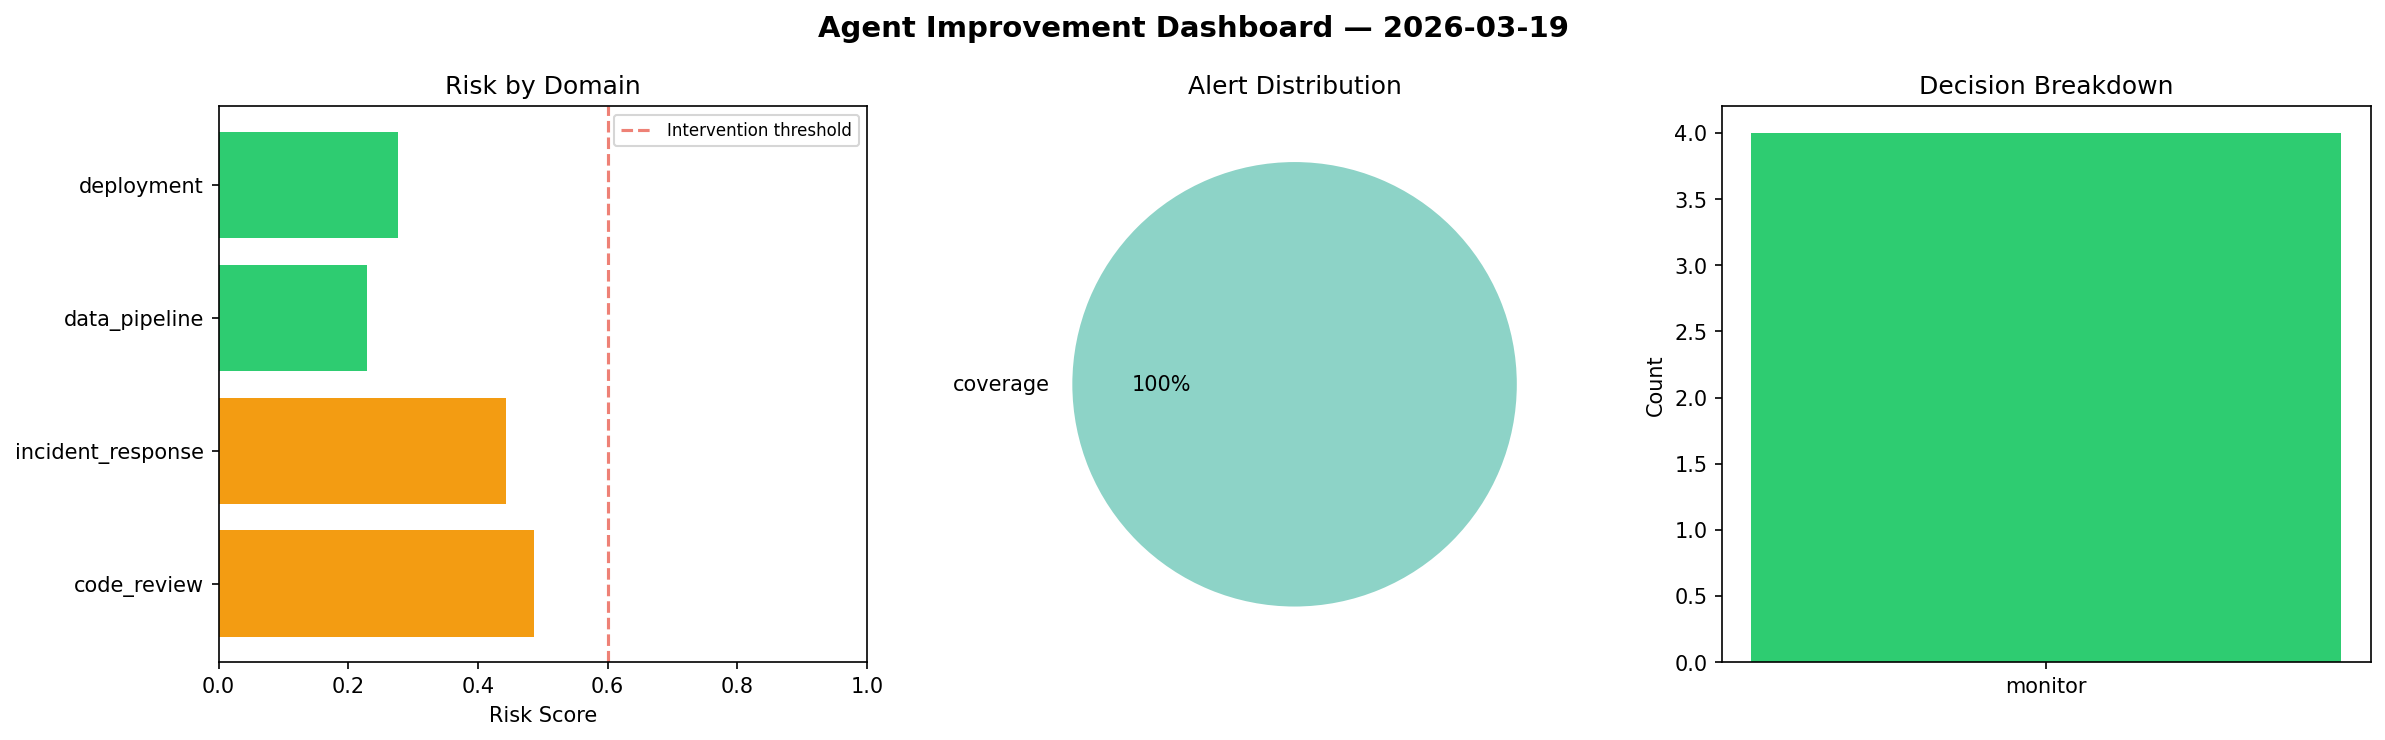
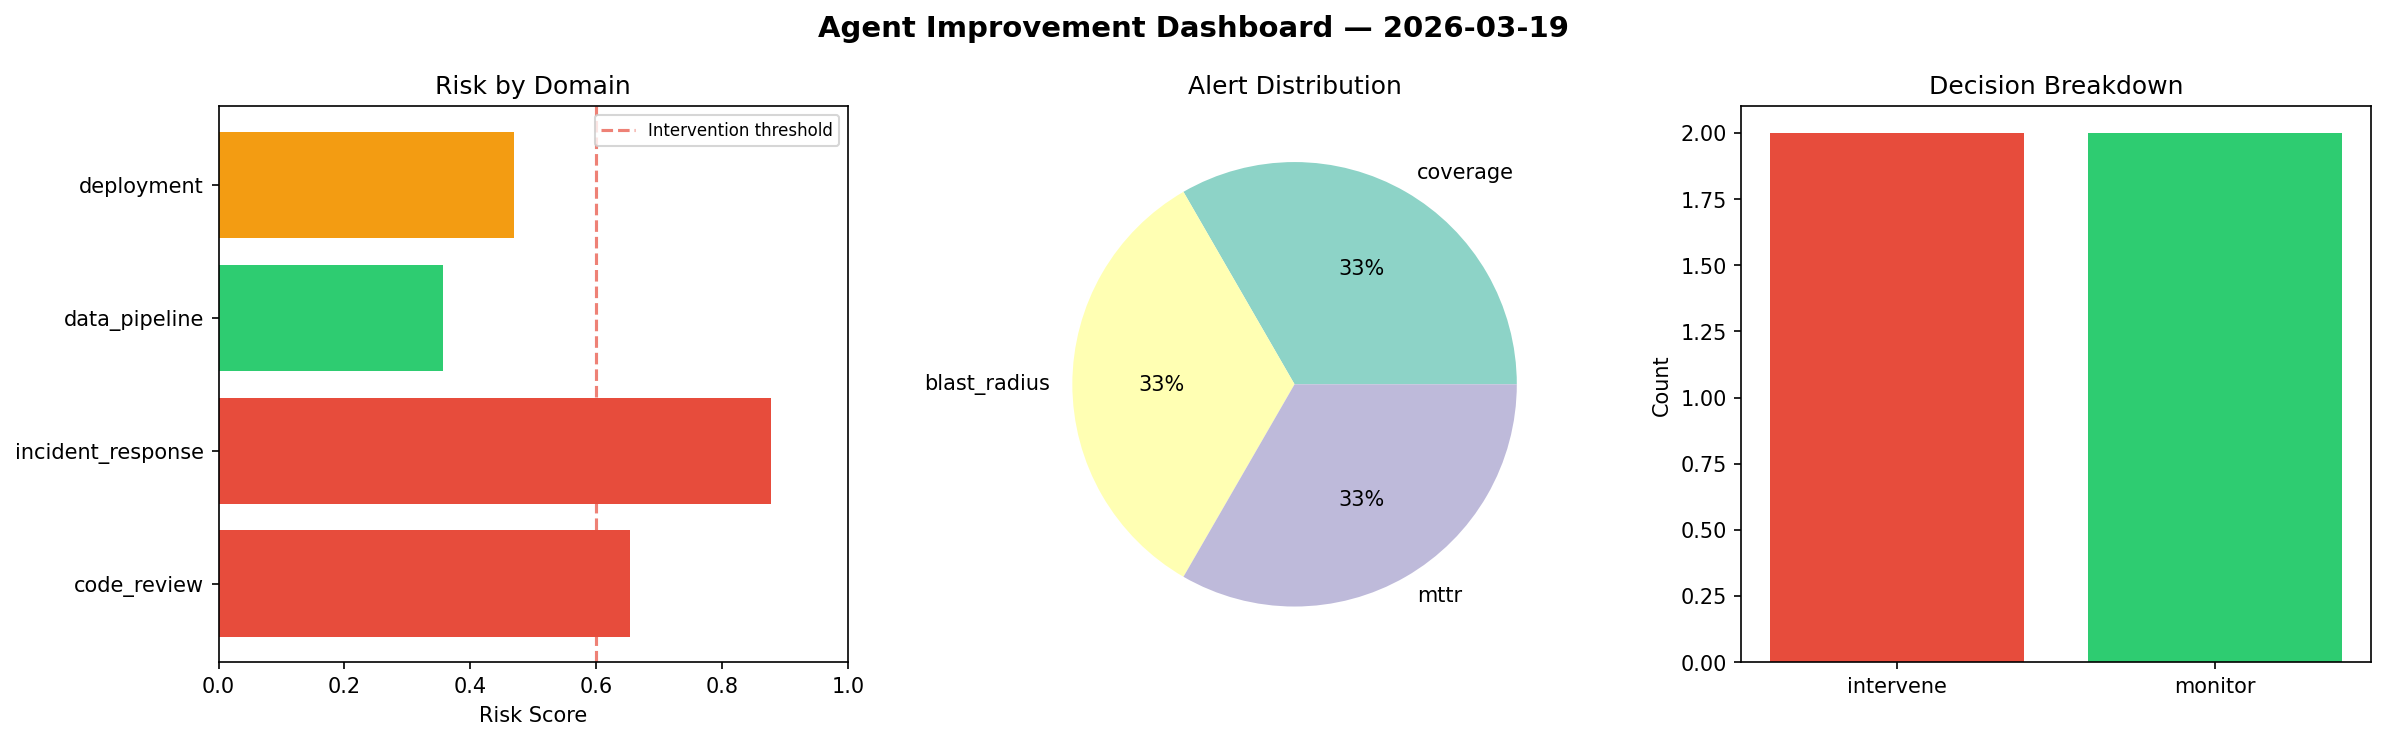
agent-improvement: daily cycle 2026-03-19T09:02

diff --git a/logs/2026-03-19.md b/logs/2026-03-19.md
@@ -1,6 +1,6 @@
 # Agent Improvement Report — 2026-03-19
 
-**Cycle ID:** `138bcc3e` | **Avg Risk:** 0.3586 | **Interventions:** 0/4
+**Cycle ID:** `ea2a8b45` | **Avg Risk:** 0.5893 | **Interventions:** 2/4
 
 ![Dashboard](2026-03-19_dashboard.png)
 
@@ -10,18 +10,18 @@
 
 | Domain | Risk Score | Decision | Alerts |
 |--------|-----------|----------|--------|
-| code_review | 0.4859 | monitor | coverage |
-| incident_response | 0.4424 | monitor | none |
-| data_pipeline | 0.2288 | monitor | none |
-| deployment | 0.2773 | monitor | none |
+| code_review | 0.6531 | intervene | coverage |
+| incident_response | 0.8786 | intervene | blast_radius, mttr |
+| data_pipeline | 0.3562 | monitor | none |
+| deployment | 0.4691 | monitor | none |
 
 ## Delta vs Yesterday
 
 | Domain | Today | Yesterday | Change |
 |--------|-------|-----------|--------|
-| code_review | 0.4859 | 0.5184 | 📉 -6.3% |
-| incident_response | 0.4424 | 0.1306 | 📈 238.7% |
-| data_pipeline | 0.2288 | 0.5184 | 📉 -55.9% |
-| deployment | 0.2773 | 0.4981 | 📉 -44.3% |
+| code_review | 0.6531 | 0.5184 | 📈 26.0% |
+| incident_response | 0.8786 | 0.1306 | 📈 572.7% |
+| data_pipeline | 0.3562 | 0.5184 | 📉 -31.3% |
+| deployment | 0.4691 | 0.4981 | 📉 -5.8% |
 
 **Refinement:** `{'adjustment': 'maintain', 'trend': 'improving', 'window': 4}`
